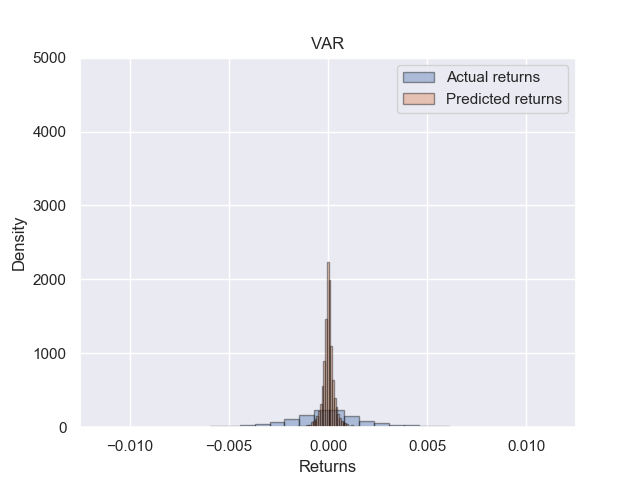
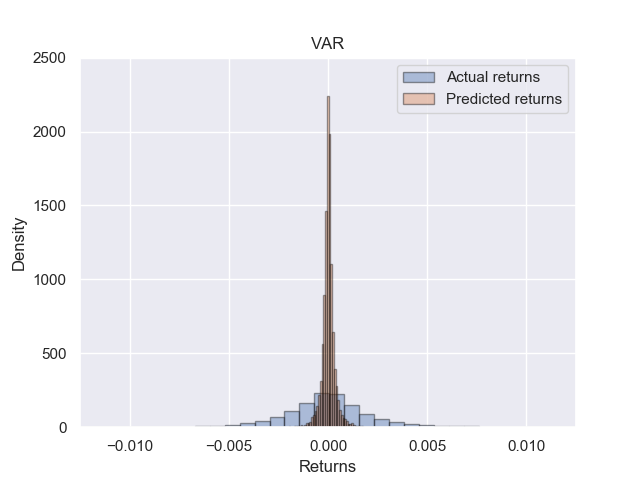
-

diff --git a/src/Evaluation/combined.py b/src/Evaluation/combined.py
@@ -8,11 +8,13 @@ tickers = ['ACN', 'AMAT', 'CDNS', 'IBM', 'INTU', 'LRCX', 'NTAP', 'VRSN', 'WU', '
 
 pred_path_LSTM = '../output/LSTM_results/test_results/partial_all_stocks_pred.csv'
 pred_path_varmax = '../output/VARMAX_results/test_files/'
+pred_path_R2N2 = '../output/R2N2_results/test_all_stocks_pred.csv'
 real_path = '../output/LSTM_results/test_results/partial_all_stocks_real.csv'
 
 pred_LSTM = pd.read_csv(pred_path_LSTM).values
 real = pd.read_csv(real_path).values
 pred_VARMAX = np.zeros(pred_LSTM.shape)
+pred_R2N2 = pd.read_csv(pred_path_R2N2).values
 for i, ticker in enumerate(tickers):
     path = pred_path_varmax+ticker+'_test_real.csv'  # THis is cuz i failed to name the VARMAX correctly
     partial_varmax_data = pd.read_csv(path).values
@@ -23,32 +25,45 @@ for i, ticker in enumerate(tickers):
 real_path = [1]
 pred_path_LSTM = [1]
 pred_path_VARMAX = [1]
-dummy = []
+pred_path_R2N2 = [1]
+dummy = [1]
 
 pred_timead_path_LSTM = [1]
 pred_timead_path_varmax = [1]
 real_timead_path = [1]
+pred_timead_path_R2N2 = [1]
 dummy_ta = [1]
 
-time_scalar = 12
+time_scalar = 6
 for i in range(pred_LSTM.shape[0]):
     real_return = np.mean(real[i, :])
     pred_return_LSTM = np.mean(pred_LSTM[i, :])
     pred_return_VARMAX = np.mean(pred_VARMAX[i, :])
+    pred_return_R2N2 = np.mean(pred_R2N2[i, :])
+
 
     real_path.append((real_return + 1) * real_path[i - 1])
     pred_path_LSTM.append((pred_return_LSTM + 1) * real_path[i - 1])
     pred_path_VARMAX.append((pred_return_VARMAX + 1) * real_path[i - 1])
-    dummy.append(real_path[i-1])
+    pred_path_R2N2.append((pred_return_R2N2 + 1) * real_path[i - 1])
+    dummy_ret: float
+    if i > 0:
+        dummy_ret = np.mean(real[i-1, :])
+    else:
+        dummy_ret = 0
+    dummy.append(real_path[i-1] * (1 + dummy_ret))
     if i % time_scalar == 0:
         real_timead_path.append(real_path[i])
         pred_timead_path_LSTM.append(pred_path_LSTM[i])
         pred_timead_path_varmax.append(pred_path_VARMAX[i])
+        pred_timead_path_R2N2.append(pred_path_R2N2[i])
         dummy_ta.append(dummy[i])
 
-plt.plot(dummy_ta, label='dummy')
-plt.plot(pred_timead_path_LSTM, label='LSTM pred')
-plt.plot(pred_timead_path_varmax, label='VARMAX pred')
+sns.set(color_codes=True)
+plt.plot(dummy_ta, label='Predict Previous return')
+plt.plot(pred_timead_path_LSTM, label='LSTM predictions ')
+plt.plot(pred_timead_path_varmax, label='VARMAX predictions')
+plt.plot(pred_timead_path_R2N2, label='R2N2 predictions')
 plt.plot(real_timead_path, label='real')
 
 plt.legend()

diff --git a/src/Evaluation/test_data_evaluation.py b/src/Evaluation/test_data_evaluation.py
@@ -7,12 +7,12 @@ import seaborn as sns
 tickers = ['ACN', 'AMAT', 'CDNS', 'IBM', 'INTU', 'LRCX', 'NTAP', 'VRSN', 'WU', 'XLNX']
 
 LSTM_partial: bool = True
-VAR: bool = False
+VAR: bool = True
 VARMAX: bool = False
 R2N2: bool = False
 
-pred_path = '../output/LSTM_results/valid_results/partial_all_stocks_pred.csv'
-real_path = '../output/LSTM_results/valid_results/partial_all_stocks_real.csv'
+pred_path = '../output/LSTM_results/test_results/partial_all_stocks_pred.csv'
+real_path = '../output/LSTM_results/test_results/partial_all_stocks_real.csv'
 
 pred = pd.read_csv(pred_path).values
 real = pd.read_csv(real_path).values
@@ -140,17 +140,18 @@ if VARMAX is True:
     print('VARMAX SR:', np.mean(VARMAX_strategy_returns)/np.std(VARMAX_strategy_returns))
 
 if VAR is True:
-    var_test_path = '../output/VAR_results/test_predictions.csv'
-    var_data = pd.read_csv(var_test_path).values
-    var_data = var_data[24: var_data.shape[0]]
+    var_test_path = '../output/VAR_results/VAR_test_predictions.csv'
+    var_data = pd.read_csv(var_test_path)
+    var_data = var_data.drop(columns=['Unnamed: 0']).values
 
     threshold = 0
 
     strategy_returns = np.zeros(real.shape)
+    print(strategy_returns.shape)
 
-    for i in range(strategy_returns.shape[0]):
+    for i in range(strategy_returns.shape[0] - 1):
         for j in range(strategy_returns.shape[1]):
-            if var_data[i, j] > threshold:
+            if var_data[i + 1, j] > threshold:
                 strategy_returns[i, j] = real[i, j]
             else:
                 strategy_returns[i, j] = -real[i, j]
@@ -167,7 +168,7 @@ if VAR is True:
     sns.distplot(var_data.flatten(), kde=True, hist=True, bins=100,
                  label='Predicted returns', hist_kws={'edgecolor': 'black'},
                  kde_kws={"lw": 0})
-    plt.axis([-0.0125, 0.0125, 0, 5000])
+    plt.axis([-0.0125, 0.0125, 0, 2500])
     plt.title('VAR')
     plt.xlabel('Returns')
     plt.ylabel('Density')

diff --git a/src/Evaluation/trading_treshold.py b/src/Evaluation/trading_treshold.py
@@ -1,0 +1,52 @@
+import matplotlib.pyplot as plt
+import pandas as pd
+import numpy as np
+from sklearn.metrics import zero_one_loss
+import seaborn as sns
+
+pred_path = '../output/LSTM_results/test_results/partial_all_stocks_pred.csv'
+real_path = '../output/LSTM_results/test_results/partial_all_stocks_real.csv'
+
+pred = pd.read_csv(pred_path).values
+real = pd.read_csv(real_path).values
+print(real.shape)
+market_returns = np.mean(real, axis=1)
+
+tuner = sorted(pred.flatten())
+print(len(tuner))
+tun_list = []
+ret_list_short = []
+ret_list = []
+
+for i in range(len(tuner)-3):
+    t = tuner[i]
+    print(i)
+    strategy_returns_short = np.zeros(real.shape)
+    strategy_returns = np.zeros(real.shape)
+    for i in range(strategy_returns_short.shape[0]):
+        for j in range(strategy_returns_short.shape[1]):
+            if pred[i, j] > t:
+                strategy_returns_short[i, j] = real[i, j]
+                strategy_returns[i, j] = real[i, j]
+            else:
+                strategy_returns_short[i, j] = -real[i, j]
+    strategy_returns_short = np.mean(strategy_returns_short, axis=1)
+    strategy_returns = np.mean(strategy_returns, axis=1)
+
+    #R = 1
+    #for j in range(strategy_returns.shape[0]):
+    #    R *= (1 + strategy_returns[j])
+
+    tun_list.append(t)
+    ret_list_short.append(np.mean(strategy_returns_short)/np.std(strategy_returns_short))
+    ret_list.append(np.mean(strategy_returns)/np.std(strategy_returns))
+
+sns.set(color_codes=True)
+plt.plot(tun_list, ret_list_short, label='Strategy: long/short')
+plt.plot(tun_list, ret_list, label='Strategy: long/pass')
+plt.title('Optimal threshold')
+plt.xlabel('Threshold')
+plt.ylabel('Sharpe ratio of portfolio')
+plt.legend()
+plt.savefig('../output/beta_treshold_on_test_set.png')
+plt.show()

diff --git a/src/Evaluation/trading_strategi_tries.py b/src/Evaluation/trading_strategi_tries.py
@@ -77,9 +77,6 @@ plt.show()
 
     #print(ticker, np.mean(investment_strategy)/np.std(investment_strategy))
 
-
-
-
 real_list = [1]
 pred_list = [1]
 idx = 1
